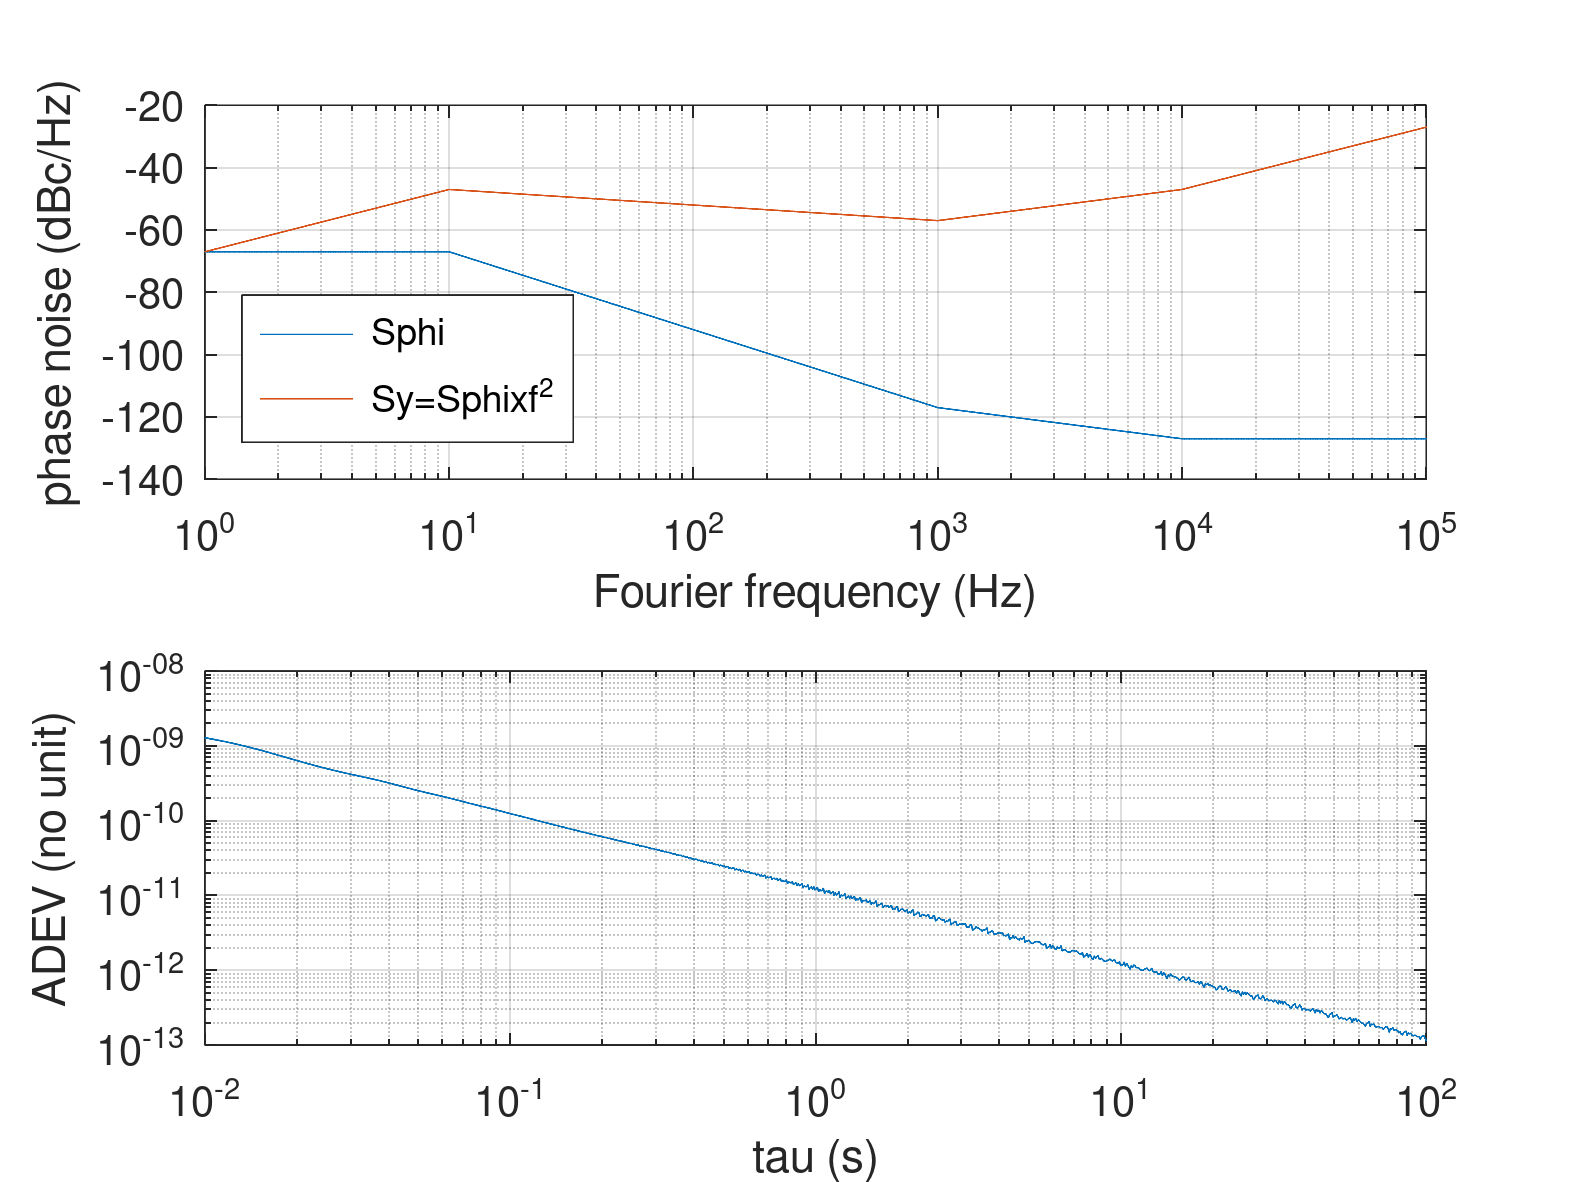
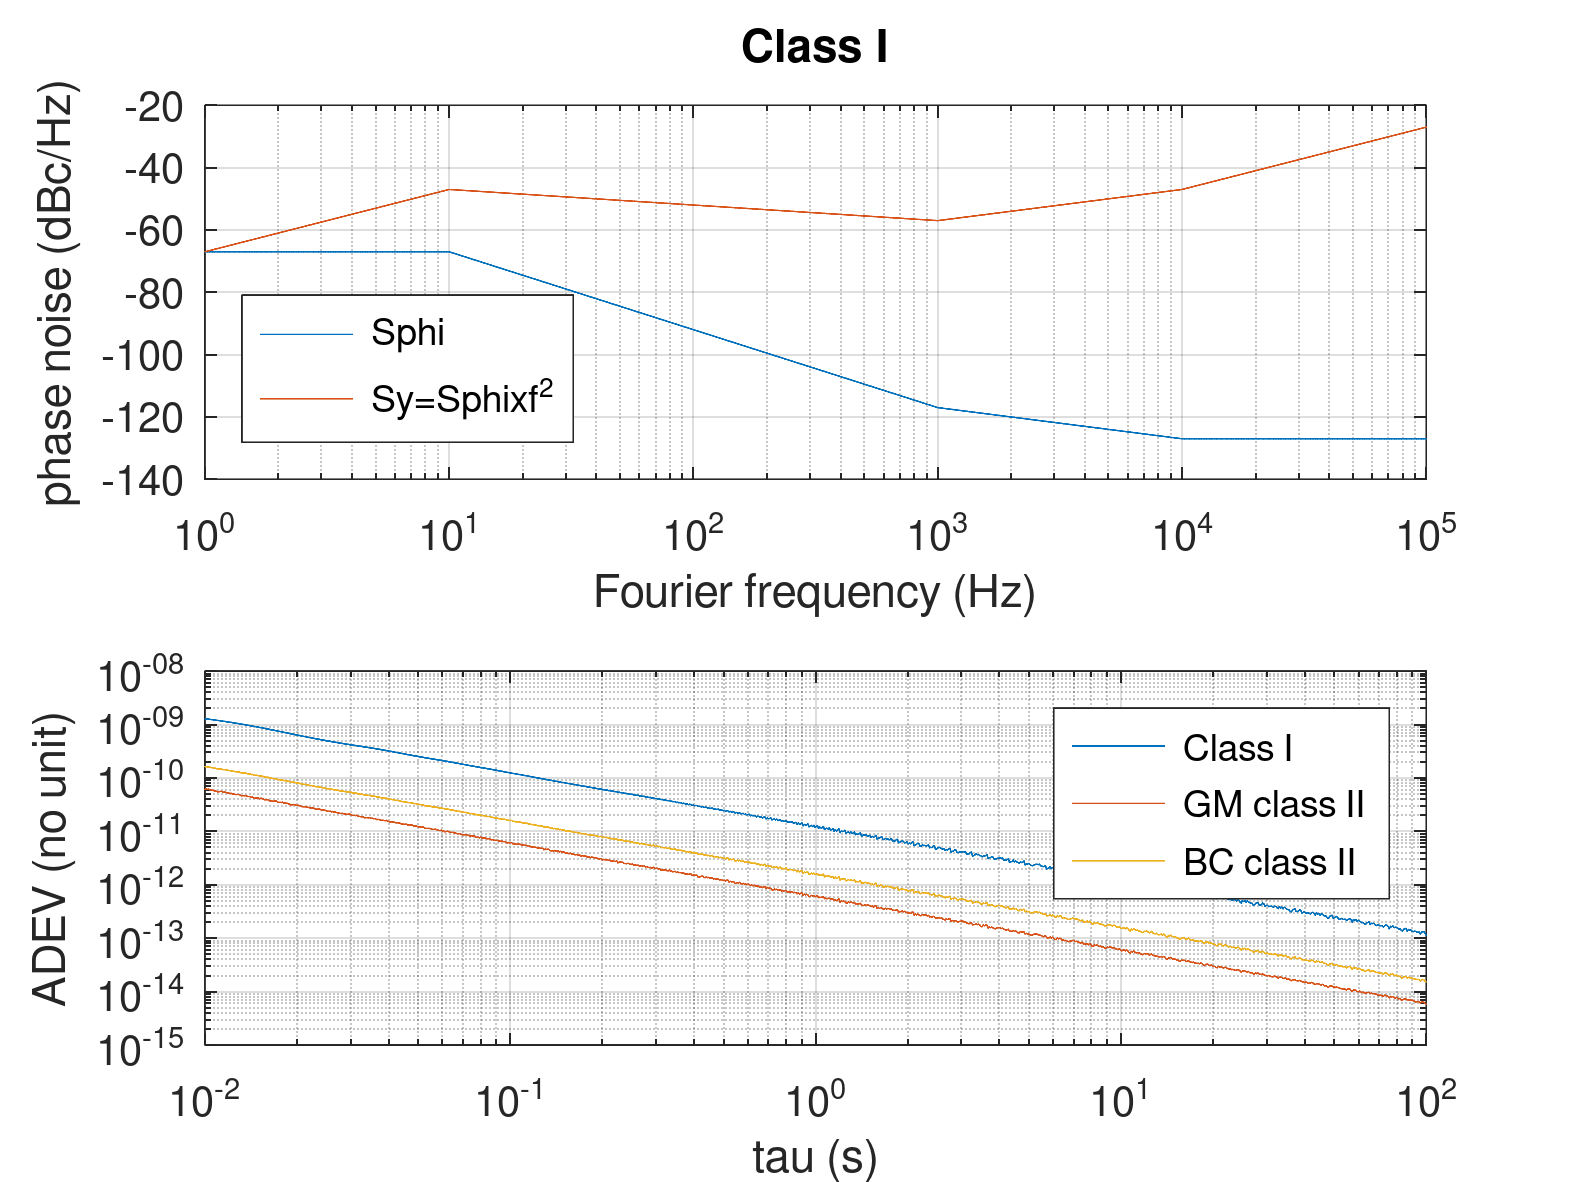
compute adev for all phase noise cases

Changed region(s): [[0.0622, 0.5787, 0.9016, 0.8832], [0.4664, 0.0, 0.5596, 0.0609]]

diff --git a/phase_to_time/phase_to_adev.m b/phase_to_time/phase_to_adev.m
@@ -1,35 +1,46 @@
 fc=1e7; % carrier frequency
 N=100;  % interpolation factor
 % phase noise spectral SdBc @ fF
-fF=  [1    10  100 1000 10000 1e5] %  1e6  1e7];
-SdBc=[-70 -70  -95 -120 -130 -130] % -130 -130]
+fF=  [1    10  100 1000 10000 1e5] %
+SdBc(:,1)=[-70  -70  -95  -120 -130 -130]; % BC/GM class I
+SdBc(:,2)=[-100 -100 -115 -130 -140 -140]; % GM class II (LJ)
+SdBc(:,3)=[-90  -90  -107 -125 -135 -135]  % BC class II
+
+
 
 %%%%%%%% interpolate, convert SdBc to SdBrad to Sy (linear) & integrate to AVAR
-SdBcint=[];
-fFint=[];
-for k=1:length(SdBc)-1
-   SdBcint=[SdBcint SdBc(k)+(SdBc(k+1)-SdBc(k))/(fF(k+1)-fF(k))*(linspace((fF(k)),(fF(k+1)),N)-fF(k))];
-   fFint=[fFint logspace(log10(fF(k)),log10(fF(k+1)),N)];
+for count=1:3
+  SdBcint=[];
+  fFint=[];
+  for k=1:length(SdBc(:,count))-1
+     SdBcint=[SdBcint SdBc(k,count)+(SdBc(k+1,count)-SdBc(k,count))/(fF(k+1)-fF(k))*(linspace((fF(k)),(fF(k+1)),N)-fF(k))];
+     fFint=[fFint logspace(log10(fF(k)),log10(fF(k+1)),N)];
+  end
+  
+  SdBrad=SdBcint+3;   % dBc/Hz -> dBrad^2/Hz
+  Sy=(10.^(SdBrad/10)).*(fFint.^2);
+  if (count==1)
+    subplot(211)
+    semilogx(fFint,(SdBrad))
+    hold on
+    semilogx(fFint,10*log10(Sy))
+    xlabel('Fourier frequency (Hz)')
+    ylabel('phase noise (dBc/Hz)');legend('Sphi','Sy=Sphixf^2','location','southwest')
+    grid on
+    title('Class I')
+  end
+  subplot(212)
+  m=1;
+  for tau=logspace(-2,2,1024)
+    avar(m)=2*sum(Sy(1:end-1).*(fFint(2:end)-fFint(1:end-1)).*sin(4*pi*tau*fFint(1:end-1)).^4./(4*pi*tau*fFint(1:end-1)).^2);
+    m=m+1;
+  end
+  
+  % plot resulting adev=sqrt(avar)
+  adev=sqrt(avar);
+  loglog(logspace(-2,2,1024),adev/fc)
+  xlabel('tau (s)');ylabel('ADEV (no unit)')
+  grid on
+  hold on
 end
-
-subplot(211)
-SdBrad=SdBcint+3;   % dBc/Hz -> dBrad^2/Hz
-Sy=(10.^(SdBrad/10)).*(fFint.^2);
-semilogx(fFint,(SdBrad))
-hold on
-semilogx(fFint,10*log10(Sy))
-xlabel('Fourier frequency (Hz)')
-ylabel('phase noise (dBc/Hz)');legend('Sphi','Sy=Sphixf^2','location','southwest')
-grid on
-subplot(212)
-m=1
-for tau=logspace(-2,2,1024)
-  avar(m)=2*sum(Sy(1:end-1).*(fFint(2:end)-fFint(1:end-1)).*sin(4*pi*tau*fFint(1:end-1)).^4./(4*pi*tau*fFint(1:end-1)).^2);
-  m=m+1;
-end
-
-% plot resulting adev=sqrt(avar)
-adev=sqrt(avar);
-loglog(logspace(-2,2,1024),adev/fc)
-xlabel('tau (s)');ylabel('ADEV (no unit)')
-grid on
+legend('Class I','GM class II','BC class II')
